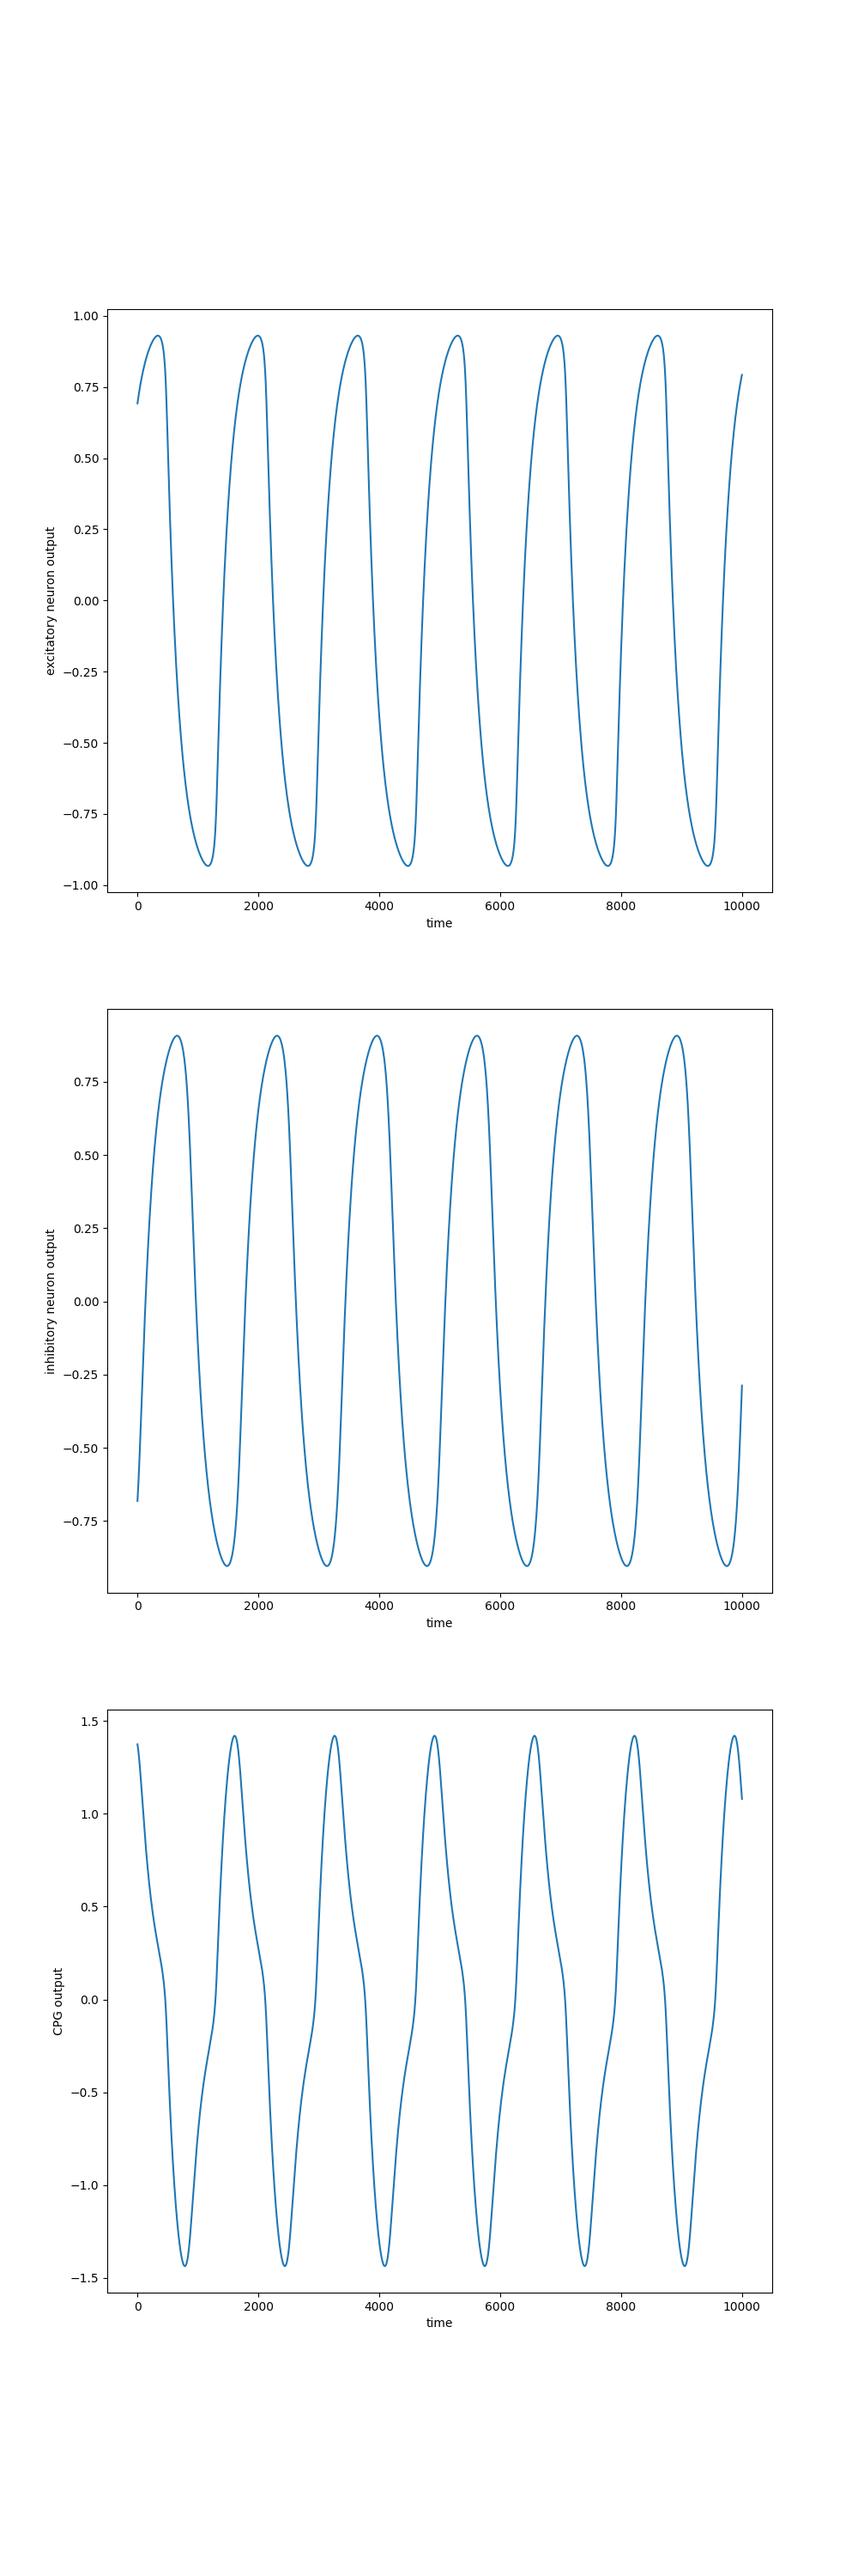
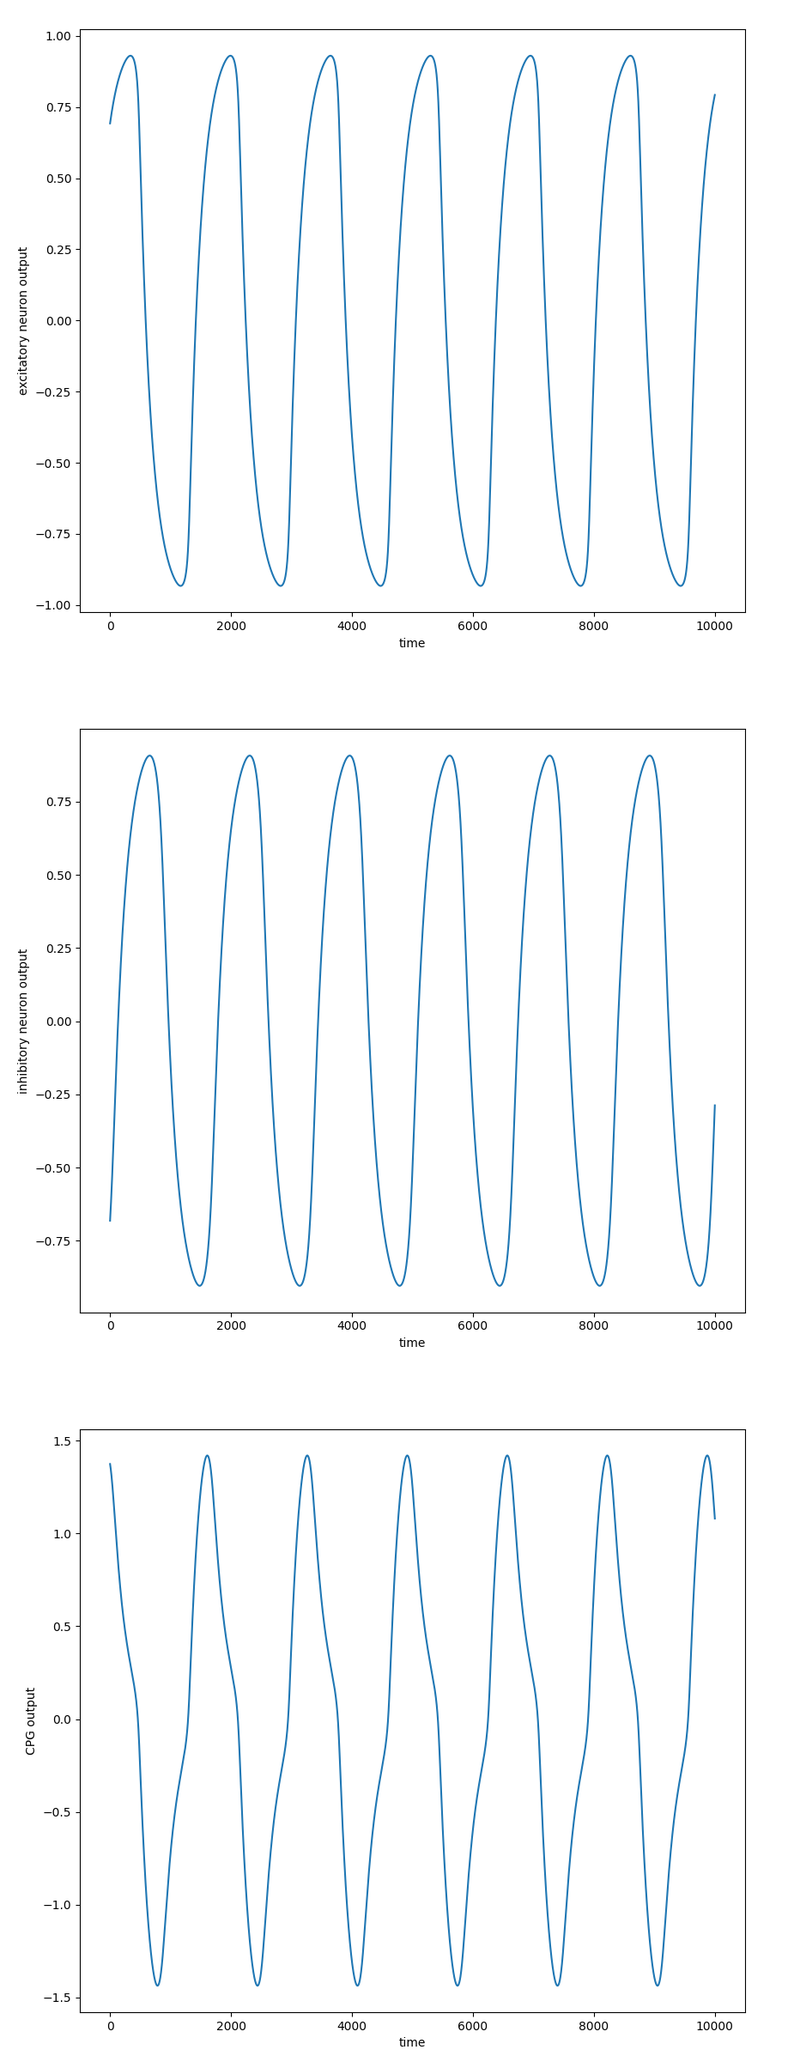
commit plot resizing and experiment 3 redone

diff --git a/wilson-cowan.py b/wilson-cowan.py
@@ -48,14 +48,14 @@ class WilsonCowan(object):
 osc = WilsonCowan(Tu = 0.2, Tv = 0.2, a = 5.6, d = -2.4, b = 5.6, c = 2.4, Su = 0.02, Sv = 0.02, mu = 1)
 osc.simulate(disturb_time = 5000000)
 fig, axes = plt.subplots(3, 1, figsize = (10, 30))
-axes[0].plot(osc.Au[5000000-10000:5000000+10000])
+axes[0].plot(osc.Au[5000000-5000:5000000+5000])
 axes[0].set_ylabel('excitatory neuron output')
 axes[0].set_xlabel('time')
-axes[1].plot(osc.Av[5000000-10000:5000000+10000])
+axes[1].plot(osc.Av[5000000-5000:5000000+5000])
 axes[1].set_ylabel('inhibitory neuron output')
 axes[1].set_xlabel('time')
-axes[2].plot(osc.Ay[5000000-10000:5000000+10000])
+axes[2].plot(osc.Ay[5000000-5000:5000000+5000])
 axes[2].set_ylabel('CPG output')
 axes[2].set_xlabel('time')
-fig.savefig('wilson_cowan_exp3.png')
+fig.savefig('plots/wilson_cowan_exp3.png')
 plt.show()
